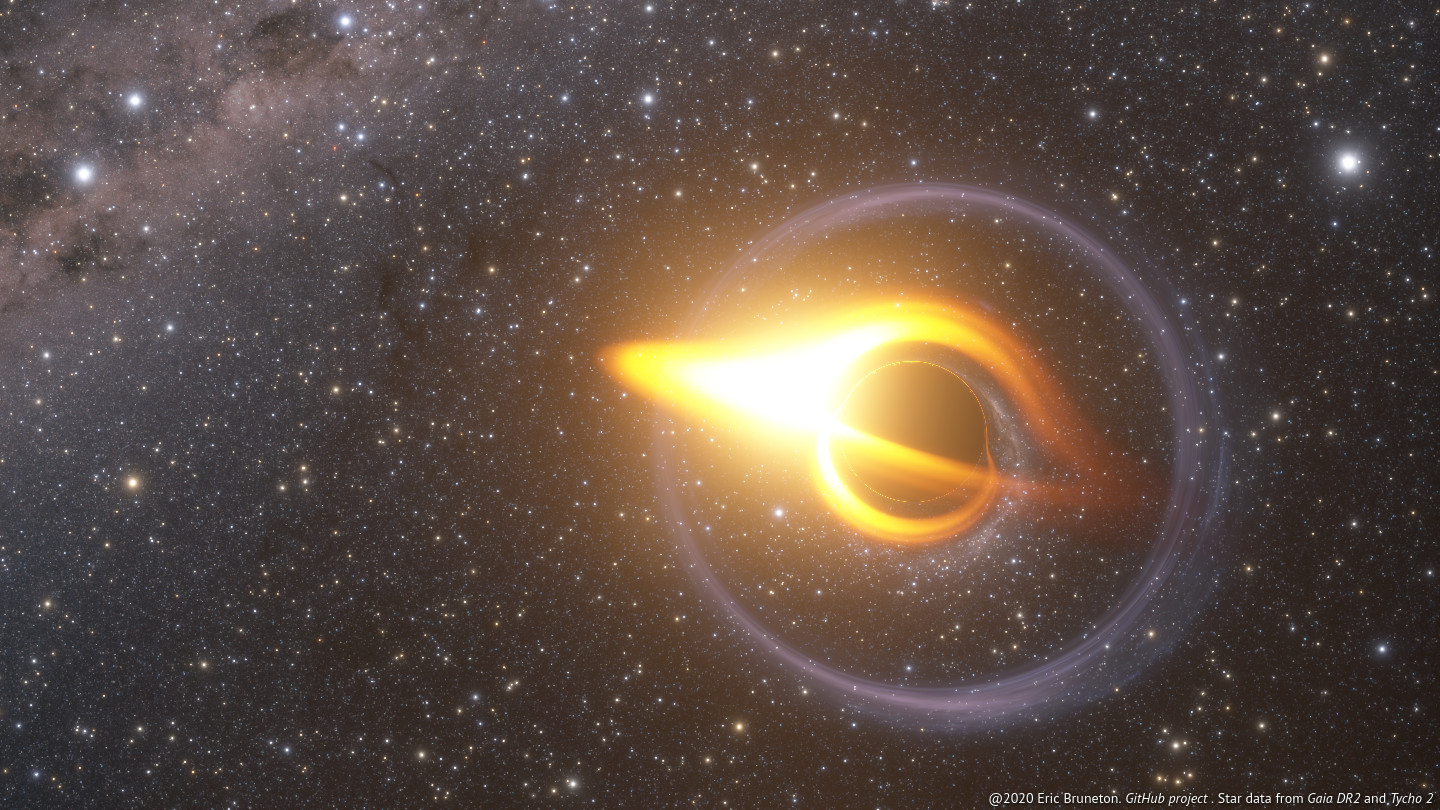
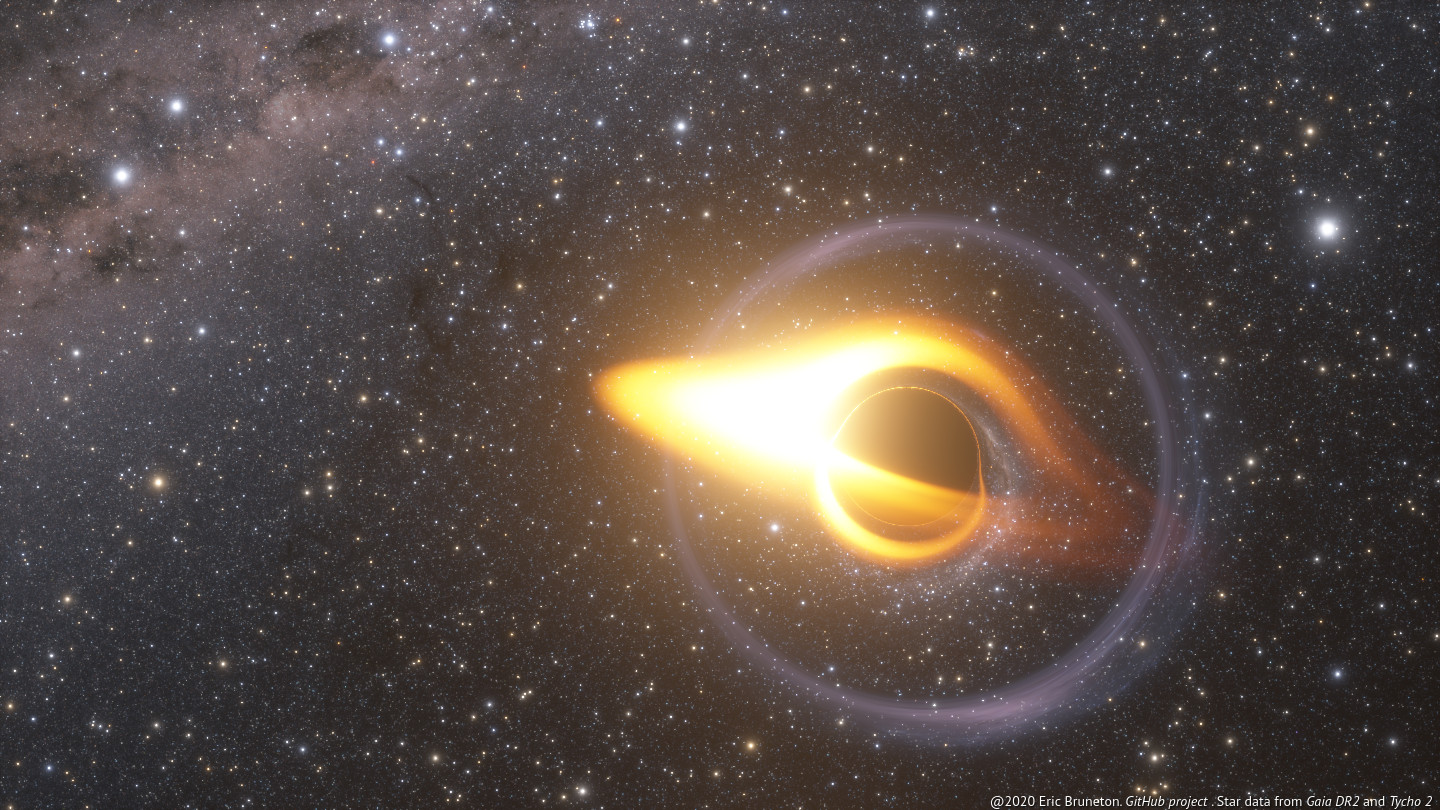
Update the images and add links to the corresponding views in the online demo.

diff --git a/index.html b/index.html
@@ -32,6 +32,7 @@
 <a href="images/black_hole_near_orion.jpg">
 <img src="images/black_hole_near_orion.jpg" width="100%">
 </a>
+<p>A black hole near <a href="https://fr.wikipedia.org/wiki/Orion_(constellation)">Orion</a>, with 2 opposite images of a star around it [<a href="demo/demo.html?or=913&oi=1101&cy=34922&os=352&sfy=693&sfp=1540&sfr=1474&ce=565&bhm=284&cp=9754&dd=393&do=0&r=33.46792681553018&dr=0.00021588733170925666&phi=5.3331338829750825&dt=401">demo</a>].
 </center>
 
 <h2>Introduction</h2>
@@ -59,7 +60,8 @@ is available under the BSD license. See also our
 <p>The <a href="https://en.wikipedia.org/wiki/Large_Magellanic_Cloud">Large
 Magellanic Cloud</a> forming an 
 <a href="https://en.wikipedia.org/wiki/Einstein_ring">Einstein ring</a>
-around the black hole.
+around the black hole [<a href="demo/demo.html?or=913&oi=1101&cy=1210&os=352&sfy=1416&sfp=1002&sfr=1461&ce=761&bhm=284&cp=8661&dd=362&do=0&r=33.46792681553018&dr=0.00021588733170925666&phi=5.3331338829750825&dt=401
+">demo</a>].
 </center>
 
 <br>
@@ -75,7 +77,8 @@ around the black hole.
 relativistic Doppler effects</a>) and their intensity increases ahead and
 decreases behind (due to
 <a href="https://en.wikipedia.org/wiki/Relativistic_beaming">relativistic
-beaming effects</a>).
+beaming effects</a>) [<a href="demo/demo.html?or=913&oi=1297&cy=31306&os=839&sfy=1454&sfp=937&sfr=1458&ce=518&bhm=1000&dd=0&do=0&dt=221&od=1017&r=5.771230799238891&dr=-0.05336767881847801&phi=1.6087927653582879
+">demo</a>].
 </center>
 
 <br>
@@ -85,7 +88,8 @@ beaming effects</a>).
 <a href="images/black_hole_and_disc_doppler.jpg">
 <img src="images/black_hole_and_disc_doppler.jpg" width="100%">
 </a>
-<p>Same conditions as above, but with an accretion disc too.
+<p>Same conditions as above, but with an accretion disc too [<a href="demo/demo.html?or=913&oi=1297&cy=31306&os=839&sfy=1454&sfp=937&sfr=1458&ce=518&bhm=1000&dd=424&do=0&dt=221&od=1017&r=5.771230799238891&dr=-0.05336767881847801&phi=1.6087927653582879
+">demo</a>].
 </center>
 
 </body>
